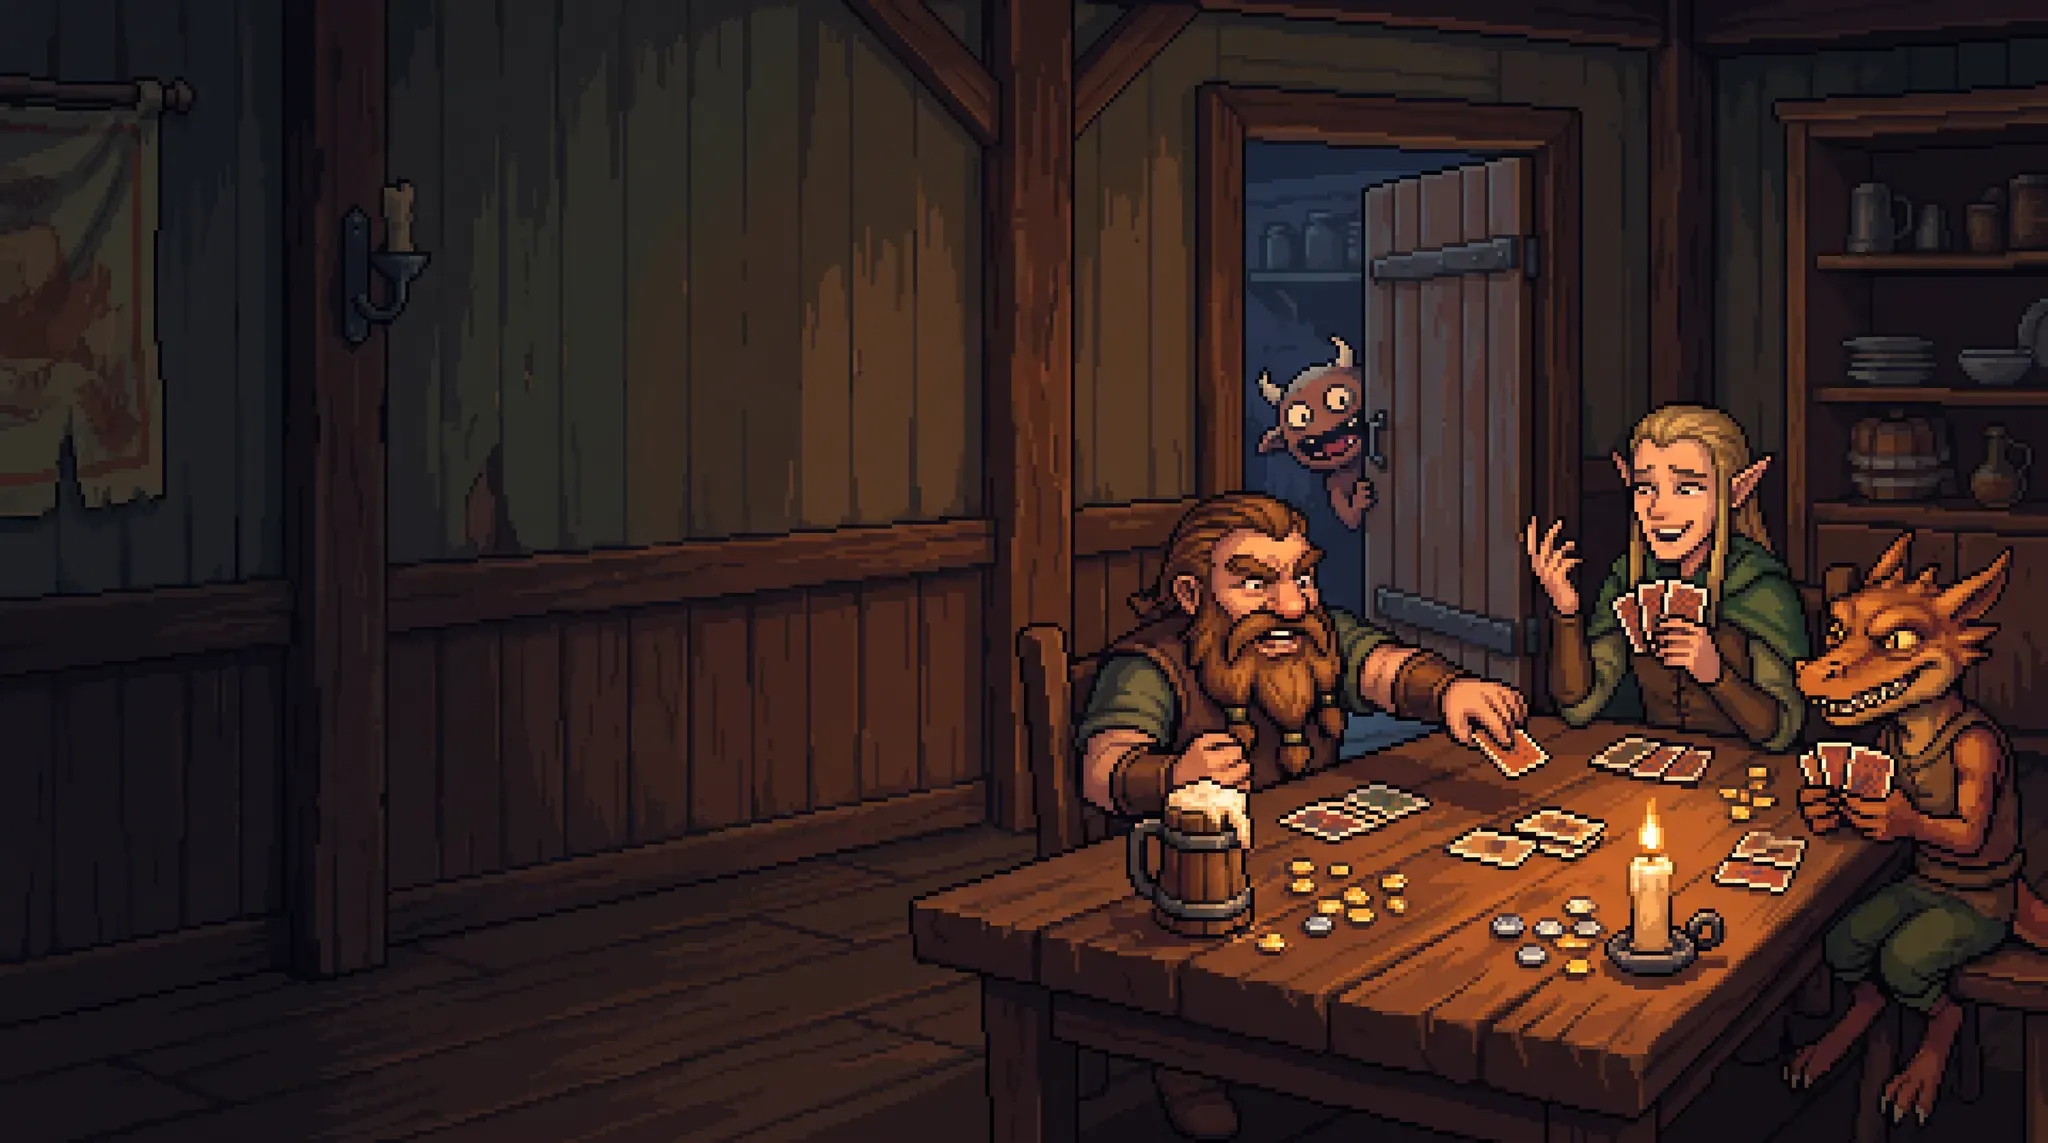
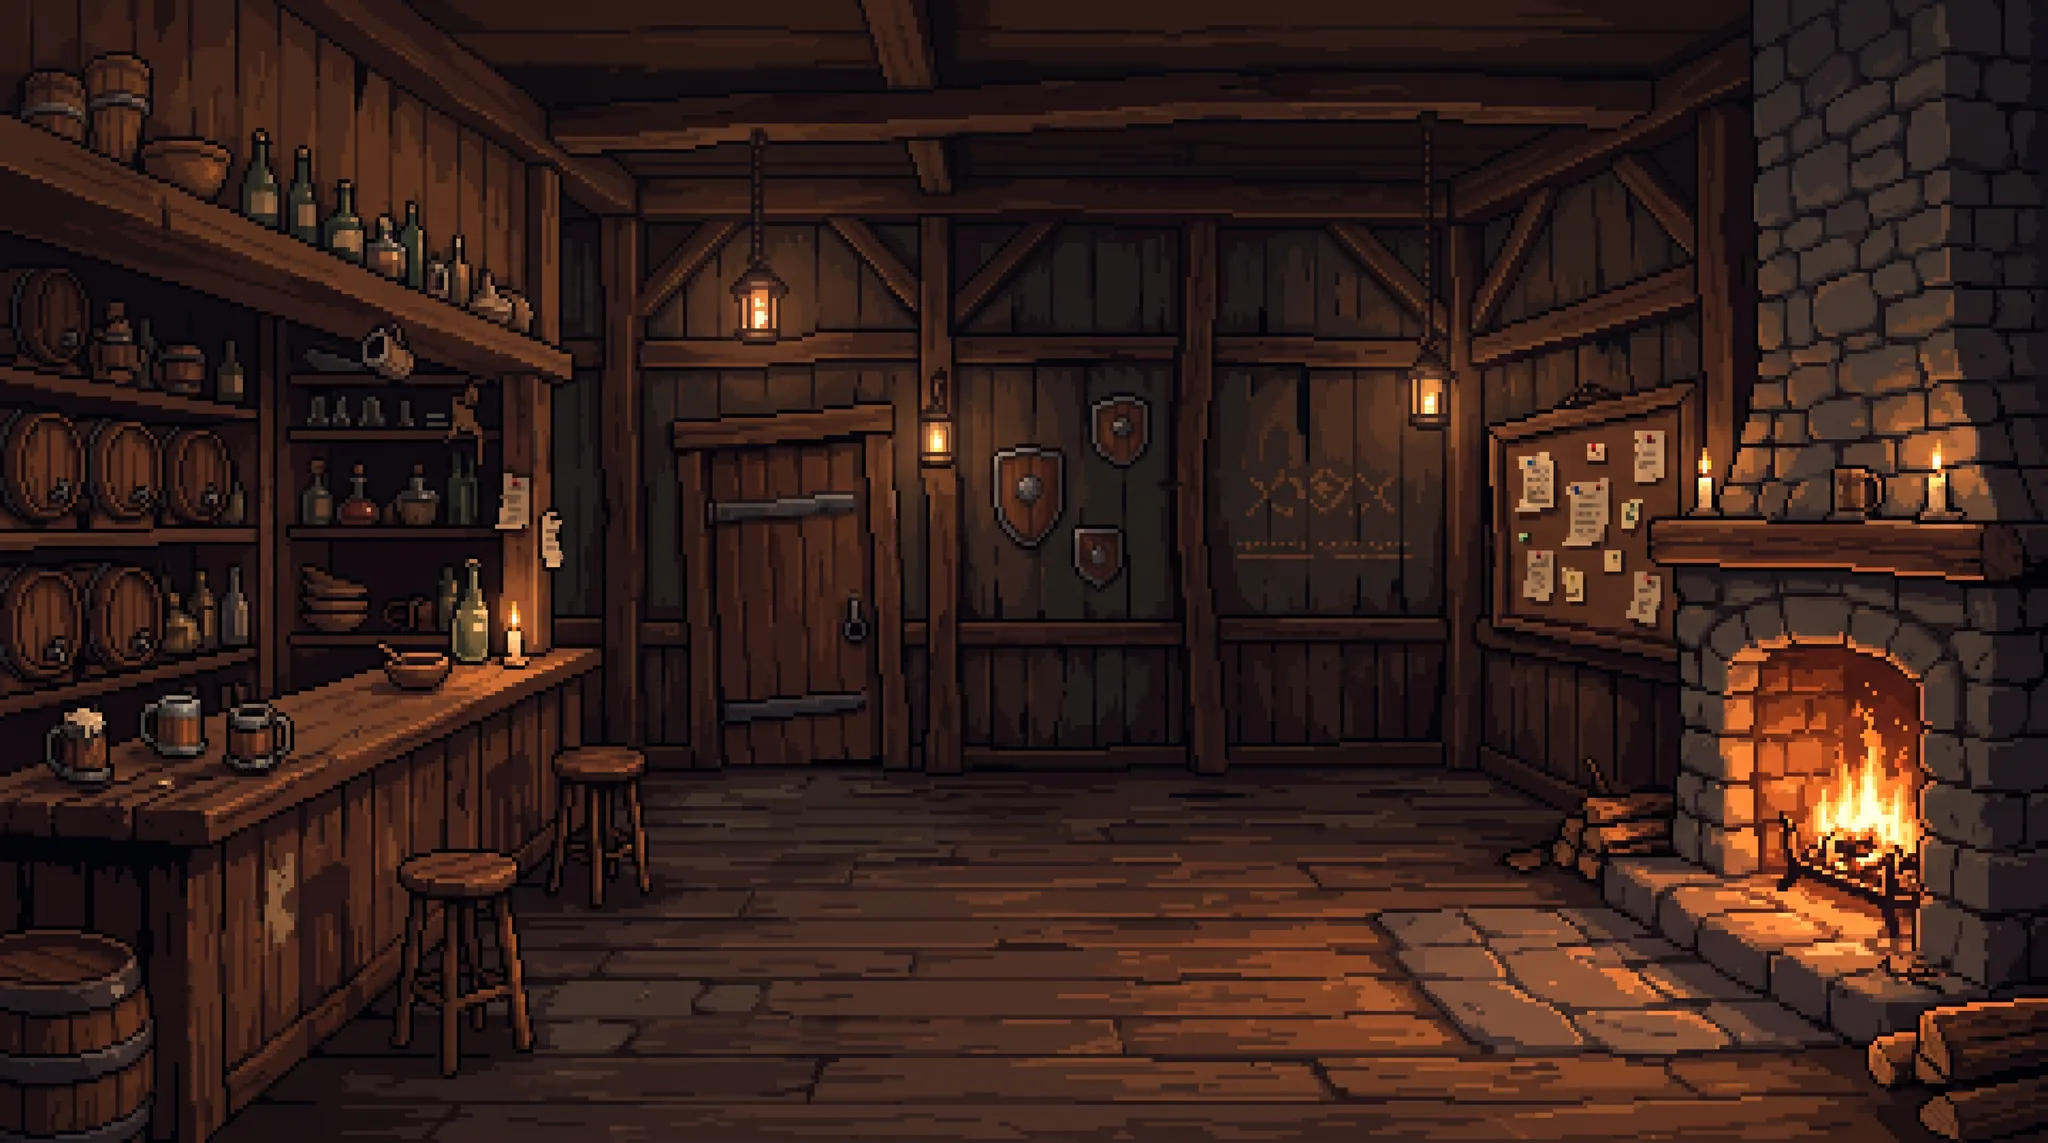
Startseite PC mit neuen Bildern: Taverne, Auftragsbrett, Kacheln; breite Tischfläche für Menüs und Partie
Claude-Session: https://claude.ai/code/session_01RTvd2LwEyaHrr3BB8V3DK4

diff --git a/spiel/css/app.css b/spiel/css/app.css
@@ -1736,7 +1736,7 @@ html.wide-menu .footbtn .btn{width:auto;min-width:340px}
 /* Startseite des Spiels am PC und Tablet: Taverne im Hintergrund, alles auf einen Blick */
 .hub{display:none}
 html.wide-menu #scr-title{background:#1a100a}
-html.wide-menu #scr-title::before{content:"";position:absolute;inset:-12px;background:linear-gradient(rgba(18,10,5,.5),rgba(18,10,5,.66)),url(../art/hub-taverne.webp) center/cover no-repeat;filter:blur(3px) saturate(.75);pointer-events:none}
+html.wide-menu #scr-title::before{content:"";position:absolute;inset:0;background:linear-gradient(rgba(18,10,5,.42),rgba(18,10,5,.58)),url(../art/hub-taverne.webp) center/cover no-repeat;pointer-events:none}
 html.wide-menu #scr-title::after{content:"";position:absolute;inset:0;background:radial-gradient(ellipse at 50% 45%,transparent 40%,rgba(10,5,2,.55) 100%);pointer-events:none}
 html.wide-menu #scr-title>:not(.hub):not(#motes){display:none!important}
 html.wide-menu .hub{display:grid;grid-template-columns:minmax(280px,22vw) minmax(0,1fr) clamp(150px,12.5vw,220px);gap:clamp(18px,2vw,32px);height:100%;padding:calc(var(--sat) + 20px) clamp(20px,2.4vw,40px) 22px;overflow:hidden;position:relative;z-index:1}
@@ -1757,7 +1757,7 @@ html.pf-art .hub-me .pf-big{border-color:transparent}
 .hub-me.hasbg .hub-who em{color:#8a5a12}
 .hub-who em img{width:20px;height:20px}
 /* Aufträge: abgerundetes Brett mit Hilde oben */
-.hub-daily{display:flex;flex-direction:column;flex:1;min-height:0;border-radius:20px;overflow:hidden;border:2px solid rgba(255,214,160,.28);background:#2a1a10 url(../art/brett-auftraege.webp) center top/cover;box-shadow:inset 0 0 26px rgba(0,0,0,.6),0 14px 26px -12px rgba(0,0,0,.85)}
+.hub-daily{display:flex;flex-direction:column;flex:1;min-height:0;border-radius:20px;overflow:hidden;border:2px solid rgba(255,214,160,.28);background:#2a1a10 url(../art/brett-hub.webp) center top/cover;box-shadow:inset 0 0 26px rgba(0,0,0,.6),0 14px 26px -12px rgba(0,0,0,.85)}
 .hub-daily>header{display:flex;align-items:center;gap:12px;padding:12px 14px;background:linear-gradient(rgba(20,12,6,.9),rgba(20,12,6,.55));color:var(--on-wood)}
 .hub-daily>header img{width:54px;height:54px;border-radius:50%;object-fit:cover;object-position:50% 20%;border:2px solid #e9cf9a;flex:0 0 auto}
 .hub-daily h3{margin:0;font:700 24px/1.05 var(--display);color:#fbefd6;text-shadow:0 2px 0 rgba(0,0,0,.6)}
@@ -1823,6 +1823,8 @@ html.pf-art .hub-me .pf-big{border-color:transparent}
 .nreroll{appearance:none;display:grid;place-items:center;width:26px;height:26px;padding:0;border-radius:50%;border:1.5px solid rgba(110,76,44,.55);background:rgba(255,248,230,.6);color:#6b4a2b;cursor:pointer}
 .nreroll:hover{background:#fff6e0;border-color:#8a5a12}
 .nreroll svg{width:15px;height:15px;fill:none;stroke:currentColor;stroke-width:2.4;stroke-linecap:round;stroke-linejoin:round}
+/* Breite Bildschirme: breite Tischfläche statt des hochkant gemalten Bretts (Welten mit eigenem Tisch behalten ihren) */
+#app.wide:not(.tbl-keller):not(.tbl-wald):not(.tbl-strand):not(.tbl-schiff){background:linear-gradient(rgba(20,10,4,.10),rgba(20,10,4,.10)),url(../art/tisch-breit.webp) center/cover no-repeat,var(--wood-dark)}
 /* Tablet: weniger Platz, Spalten schmaler */
 @media (max-width:1399px){html.wide-menu .hub{grid-template-columns:minmax(250px,27vw) minmax(0,1fr) clamp(140px,14vw,180px)}}
 

diff --git a/spiel/sw.js b/spiel/sw.js
@@ -1,5 +1,5 @@
 /* Service Worker: macht die App offline spielbar. Wird von build_mobile.py erzeugt. */
-const CACHE = 'loota-8a209b1dd6';
+const CACHE = 'loota-59cef662f5';
 const FILES = [
 "./",
 "index.html",
@@ -23,6 +23,7 @@ const FILES = [
 "art/besonders-schatzkarte-links.webp",
 "art/besonders-schatzkarte-rechts.webp",
 "art/brett-auftraege.webp",
+"art/brett-hub.webp",
 "art/einmal-champignon.webp",
 "art/einmal-fischbroetchen.webp",
 "art/einmal-flasche-drachenschnaps.webp",
@@ -102,6 +103,10 @@ const FILES = [
 "art/hintergrund-strand.webp",
 "art/hintergrund-tisch.webp",
 "art/hintergrund-wald.webp",
+"art/hub-freunde.webp",
+"art/hub-karten.webp",
+"art/hub-laden.webp",
+"art/hub-optionen.webp",
 "art/hub-regeln.webp",
 "art/hub-taverne.webp",
 "art/kachel-frei.webp",
@@ -234,6 +239,7 @@ const FILES = [
 "art/szene-auftragsbrett.webp",
 "art/szene-kraemerladen.webp",
 "art/szene-offene-partie.webp",
+"art/tisch-breit.webp",
 "art/titelschild.webp",
 "art/verstaerker-riesenhaft.webp",
 "art/verstaerker-stinksauer.webp",

diff --git a/spiel/js/ui.js b/spiel/js/ui.js
@@ -2442,10 +2442,10 @@ function renderHub() {
     `<aside class="hub-r">` +
       `<nav class="hub-menu" aria-label="Bereiche">` +
         // Freunde kommt als fünfte Kachel dazu, sobald es den Online-Modus gibt
-        menu('cards', 'art/szene-offene-partie.webp', '', 'Karten und Deck', 'Deck wählen') +
-        menu('shop', 'art/szene-kraemerladen.webp', '', 'Krämerladen', `${STORY.coins} Münzen`) +
+        menu('cards', 'art/hub-karten.webp', '', 'Karten und Deck', 'Deck wählen') +
+        menu('shop', 'art/hub-laden.webp', '', 'Krämerladen', `${STORY.coins} Münzen`) +
         menu('rules', 'art/hub-regeln.webp', '', 'Regeln', 'FAQ und Quiz') +
-        menu('settings', '', 'icons/nav-optionen.png', 'Optionen', 'Klang, Spiel') +
+        menu('settings', 'art/hub-optionen.webp', '', 'Optionen', 'Klang, Spiel') +
       `</nav>` +
     `</aside>`);
 }
